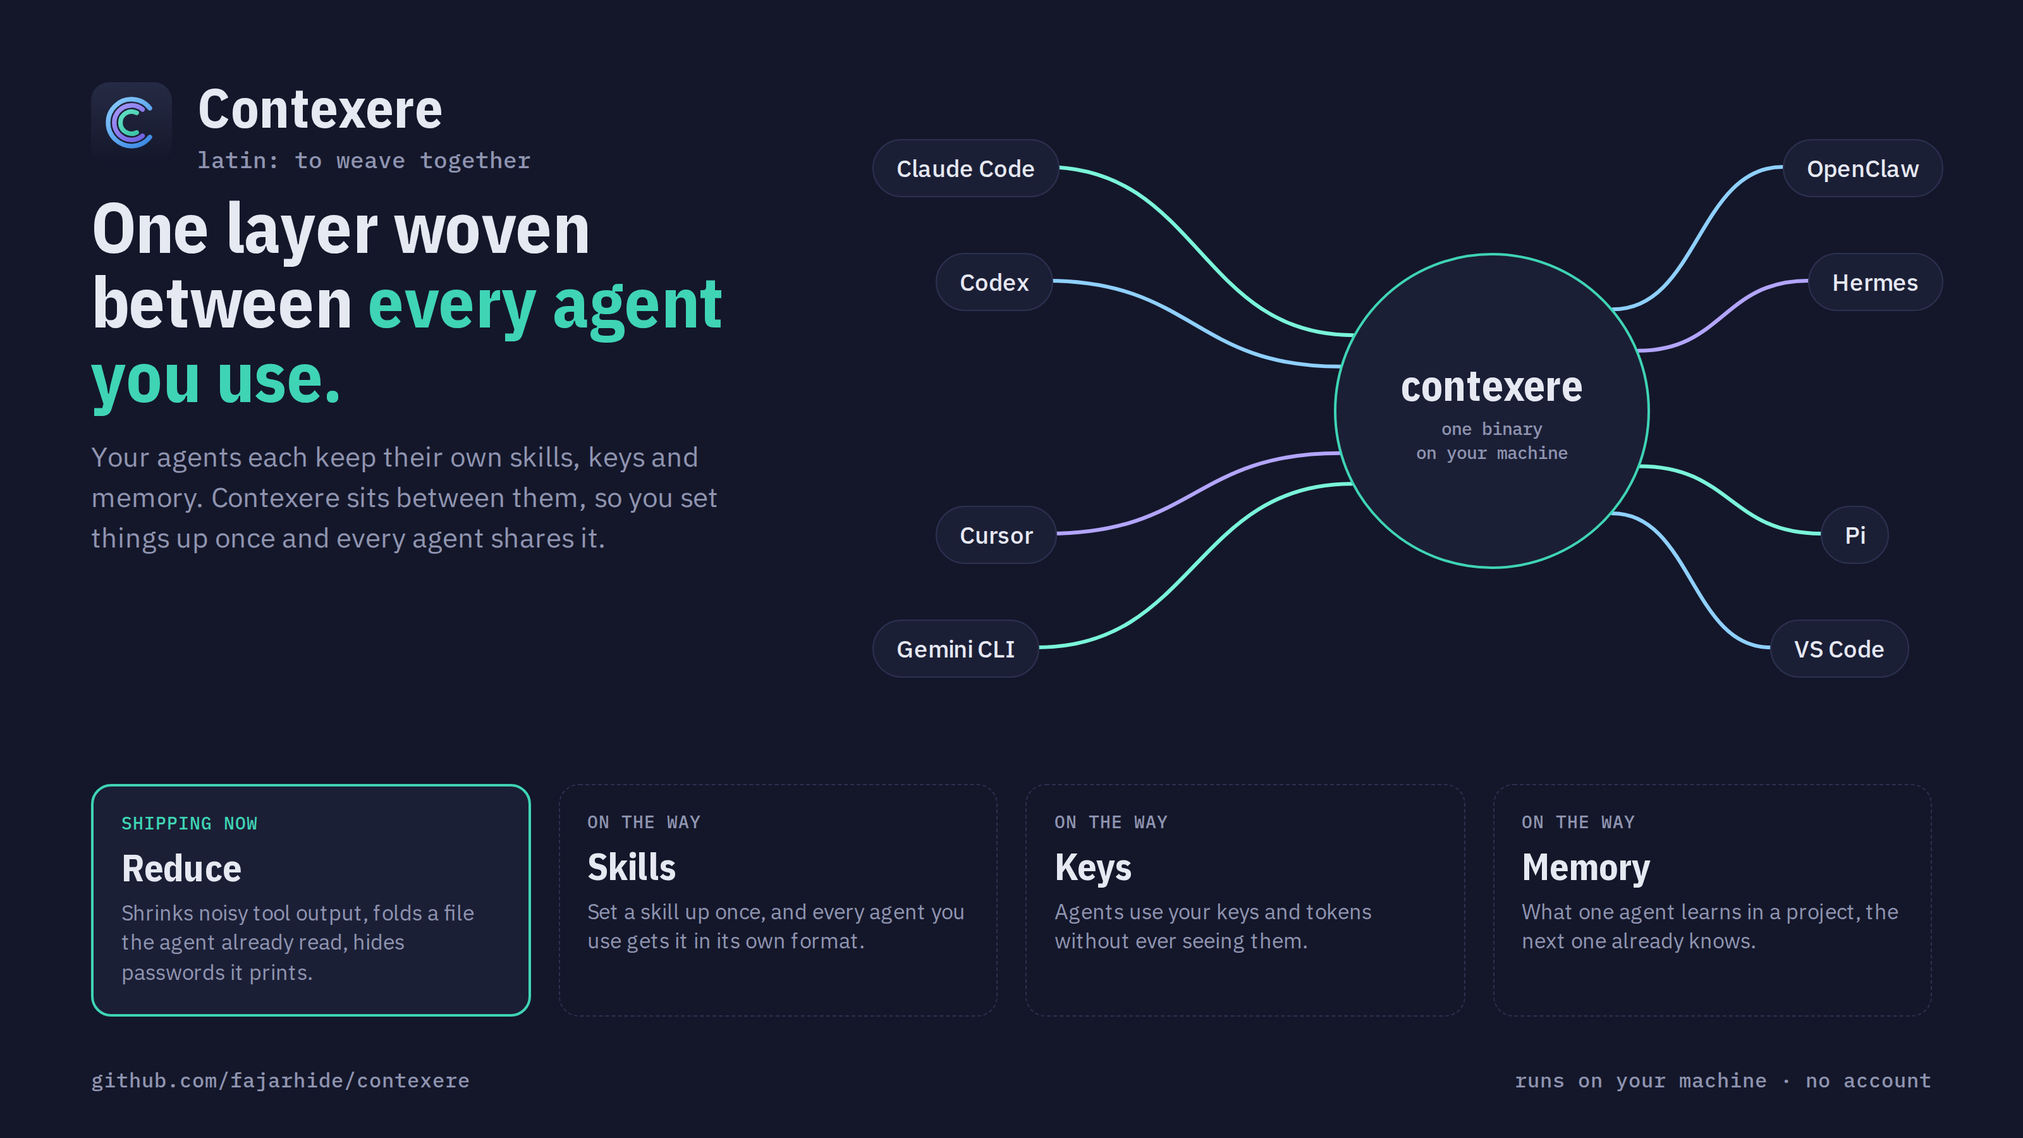
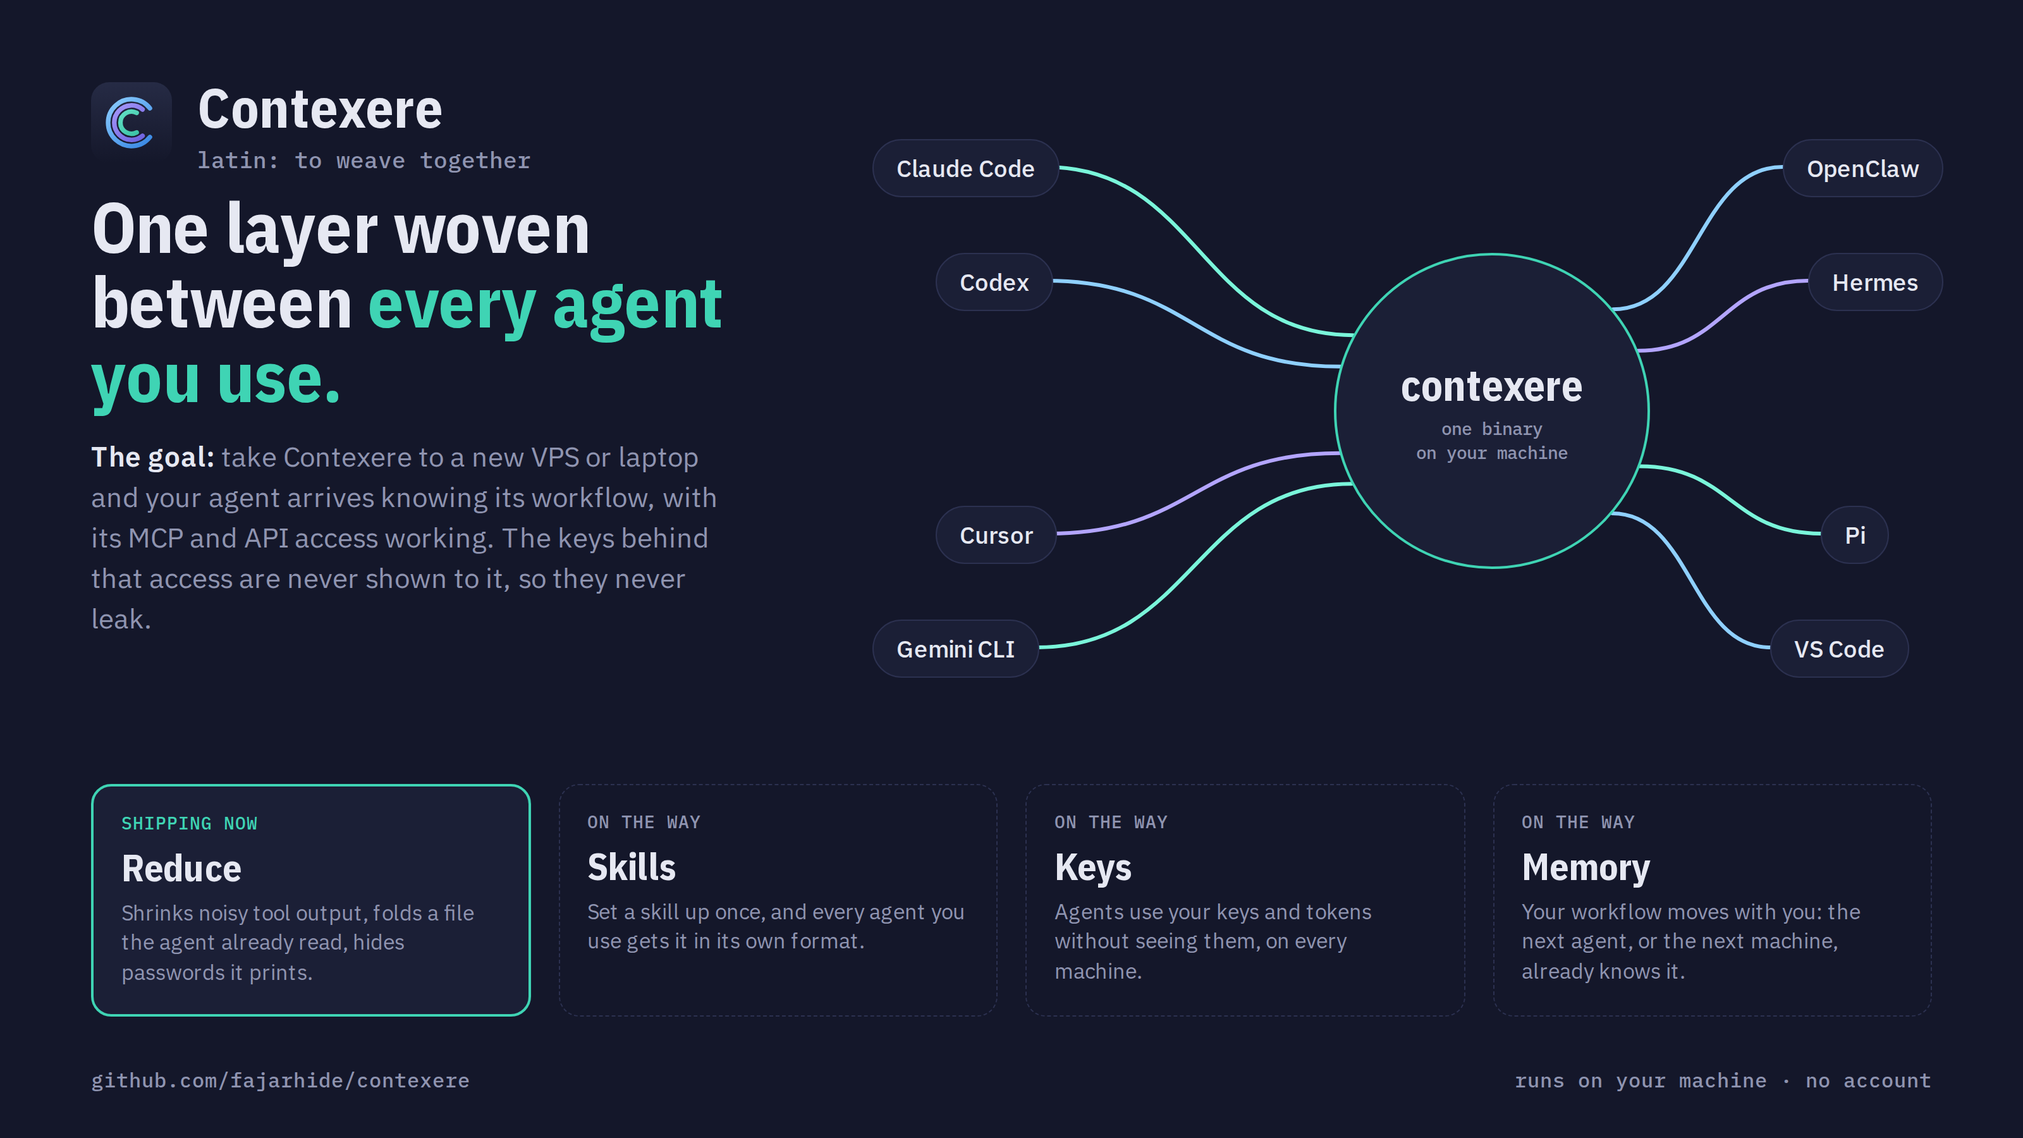
docs(readme): lead with the poster and the portable, safe goal; drop the demo GIFs for now (#1084)

diff --git a/i18n/README-ar.md b/i18n/README-ar.md
@@ -13,7 +13,10 @@
 [![License: Apache 2.0](https://img.shields.io/github/license/fajarhide/contexere)](https://github.com/fajarhide/contexere/blob/main/LICENSE)
 </br></br>
 
-<img src="../media/demo.gif" alt="Contexere يقطّر مخرجات cargo test المزعجة إلى الحكم النهائي، ثم يشغّل contexere stats" width="820" />
+<picture>
+  <source media="(prefers-color-scheme: dark)" srcset="../media/contexere-poster-dark.png" />
+  <img src="../media/contexere-poster-light.png" alt="Contexere طبقة واحدة تنسج Claude Code وCodex وCursor وGemini CLI وOpenClaw وHermes وPi وVS Code معًا. Reduce متوفر اليوم، والمهارات والمفاتيح والذاكرة قيد التطوير." width="820" />
+</picture>
 </div>
 
 ---
@@ -22,12 +25,7 @@
 
 ## إلى أين يتجه
 
-<picture>
-  <source media="(prefers-color-scheme: dark)" srcset="../media/contexere-poster-dark.png" />
-  <img src="../media/contexere-poster-light.png" alt="Contexere طبقة واحدة تنسج Claude Code وCodex وCursor وGemini CLI وOpenClaw وHermes وPi وVS Code معًا. Reduce متوفر اليوم، والمهارات والمفاتيح والذاكرة قيد التطوير." width="820" />
-</picture>
-
-كل وكيل تستخدمه يحتفظ بمهاراته ومفاتيحه وذاكرته وحده. Contexere طبقة واحدة بينها: تضبط المهارة مرة واحدة فتصل إلى كل الوكلاء، ويستخدم الوكيل مفاتيحك دون أن يراها أبدًا، وما يتعلمه وكيل في مشروع يعرفه الوكيل التالي مسبقًا. هذا الجزء قيد التطوير. ما يتوفر اليوم هو الجزء الأول، طبقة السياق والرموز الموضحة أدناه.
+الهدف: خذ Contexere إلى خادم VPS أو حاسوب محمول جديد، فيصل وكيلك وهو يعرف سير عمله، ويبقى وصوله إلى خوادم MCP وواجهات API يعمل. المفاتيح التي تقف خلف هذا الوصول لا تُعرض على الوكيل أبدًا، لذلك لا تتسرب أبدًا. وحول ذلك مهارات تضبطها مرة واحدة لكل الوكلاء، وذاكرة تنتقل معك بين الوكلاء والأجهزة. هذا الجزء قيد التطوير. ما يتوفر اليوم هو الجزء الأول، طبقة السياق والرموز الموضحة أدناه.
 
 ## لماذا
 
@@ -43,17 +41,6 @@
 - عند فشل أمر: يمرّره كما طُبع، فيصل الخطأ الحقيقي إلى الوكيل. وبيانات الاعتماد التي يطبعها أمر فاشل تصل إلى الوكيل أيضًا.
 - عند قراءة JSON أو YAML أو CSV: يتركها بايتًا ببايت.
 - يتحقق `contexere doctor` من أن Hook كل وكيل يعمل ويُخفي البيانات الحساسة.
-
-<table>
-<tr>
-<td align="center"><b>بدون Contexere</b><br/><sub>الملف نفسه (7.6 KB) يُقرأ مرتين</sub></td>
-<td align="center"><b>مع Contexere</b><br/><sub>القراءة الثانية 214 B، أصغر بنسبة <b>97.2%</b></sub></td>
-</tr>
-<tr>
-<td valign="top"><img src="../media/demo-ledger-without.gif" alt="الملف نفسه مقروءًا مرتين بدون Contexere: شاشتان متطابقتان من الشيفرة" width="400" /></td>
-<td valign="top"><img src="../media/demo-ledger-with.gif" alt="الملف نفسه مقروءًا مرتين عبر Contexere: الثانية تعيد سطر علامة واحدًا ومقبضًا للاسترجاع" width="400" /></td>
-</tr>
-</table>
 
 التكلفة نحو 21 ms لكل أمر. يعتمد التوفير على ما يفعله وكيلك؛ شغّل `contexere stats` لترى رقمك أنت. المنهجية والأرقام الكاملة في [صفحة القياسات](https://omni.weekndlabs.com/docs/develop/benchmarks).
 

diff --git a/i18n/README-ko.md b/i18n/README-ko.md
@@ -13,7 +13,10 @@
 [![License: Apache 2.0](https://img.shields.io/github/license/fajarhide/contexere)](https://github.com/fajarhide/contexere/blob/main/LICENSE)
 </br></br>
 
-<img src="../media/demo.gif" alt="Contexere가 시끄러운 cargo test 결과를 판정만 남기도록 증류한 뒤 contexere stats를 실행하는 모습" width="820" />
+<picture>
+  <source media="(prefers-color-scheme: dark)" srcset="../media/contexere-poster-dark.png" />
+  <img src="../media/contexere-poster-light.png" alt="Claude Code, Codex, Cursor, Gemini CLI, OpenClaw, Hermes, Pi, VS Code를 하나로 엮는 레이어로서의 Contexere. Reduce는 제공 중이고 스킬, 키, 메모리는 개발 중입니다." width="820" />
+</picture>
 </div>
 
 ---
@@ -22,12 +25,7 @@
 
 ## 앞으로의 방향
 
-<picture>
-  <source media="(prefers-color-scheme: dark)" srcset="../media/contexere-poster-dark.png" />
-  <img src="../media/contexere-poster-light.png" alt="Claude Code, Codex, Cursor, Gemini CLI, OpenClaw, Hermes, Pi, VS Code를 하나로 엮는 레이어로서의 Contexere. Reduce는 제공 중이고 스킬, 키, 메모리는 개발 중입니다." width="820" />
-</picture>
-
-사용하는 에이전트는 저마다 스킬, 키, 메모리를 따로 가지고 있습니다. Contexere는 그 사이에 놓이는 하나의 레이어입니다. 스킬은 한 번만 설정하면 모든 에이전트가 쓰고, 에이전트는 키를 한 번도 보지 않고 사용하며, 한 에이전트가 프로젝트에서 배운 것을 다음 에이전트가 이미 알고 있습니다. 이 부분은 개발 중입니다. 지금 제공하는 것은 그 첫 부분, 아래에서 설명하는 컨텍스트와 토큰 레이어입니다.
+목표는 이렇습니다. Contexere를 새 VPS나 노트북으로 가져가면, 에이전트는 자기 워크플로를 이미 알고 있고 MCP 서버와 API 접근도 그대로 동작합니다. 그 접근을 가능하게 하는 키는 에이전트에게 한 번도 보여 주지 않으므로 유출되지 않습니다. 그 주변에는 한 번만 설정하면 모든 에이전트가 쓰는 스킬과, 에이전트와 머신을 넘어 이어지는 메모리가 있습니다. 이 부분은 개발 중입니다. 지금 제공하는 것은 그 첫 부분, 아래에서 설명하는 컨텍스트와 토큰 레이어입니다.
 
 ## 왜 필요한가
 
@@ -43,17 +41,6 @@ Contexere는 모델이 읽기 전에 모델에 필요 없는 것을 걷어냅니
 - 명령이 실패할 때: 출력된 그대로 전달하므로 실제 오류가 에이전트에게 닿습니다. 실패한 명령이 출력한 자격 증명도 에이전트에게 그대로 닿습니다.
 - JSON, YAML, CSV를 읽을 때: 바이트 단위로 그대로 둡니다.
 - `contexere doctor`는 각 에이전트의 Hook이 동작하고 마스킹하는지 확인합니다.
-
-<table>
-<tr>
-<td align="center"><b>Contexere 없이</b><br/><sub>같은 7.6 KB 파일을 두 번 읽음</sub></td>
-<td align="center"><b>Contexere 사용</b><br/><sub>두 번째 읽기는 214 B, <b>97.2%</b> 작음</sub></td>
-</tr>
-<tr>
-<td valign="top"><img src="../media/demo-ledger-without.gif" alt="Contexere 없이 같은 파일을 두 번 읽은 경우: 동일한 소스 화면 두 개" width="400" /></td>
-<td valign="top"><img src="../media/demo-ledger-with.gif" alt="Contexere를 거쳐 같은 파일을 두 번 읽은 경우: 두 번째는 마커 한 줄과 가져오기용 핸들만 돌려줌" width="400" /></td>
-</tr>
-</table>
 
 비용은 명령당 약 21 ms입니다. 절감량은 에이전트가 하는 일에 따라 달라집니다. 내 수치는 `contexere stats`로 확인하세요. 방법과 전체 수치는 [벤치마크 페이지](https://omni.weekndlabs.com/docs/develop/benchmarks)에 있습니다.
 

diff --git a/i18n/README-vi.md b/i18n/README-vi.md
@@ -13,7 +13,10 @@
 [![License: Apache 2.0](https://img.shields.io/github/license/fajarhide/contexere)](https://github.com/fajarhide/contexere/blob/main/LICENSE)
 </br></br>
 
-<img src="../media/demo.gif" alt="Contexere chưng cất một lần chạy cargo test nhiều nhiễu xuống còn kết luận, rồi chạy contexere stats" width="820" />
+<picture>
+  <source media="(prefers-color-scheme: dark)" srcset="../media/contexere-poster-dark.png" />
+  <img src="../media/contexere-poster-light.png" alt="Contexere là một lớp dệt Claude Code, Codex, Cursor, Gemini CLI, OpenClaw, Hermes, Pi và VS Code lại với nhau. Reduce đã có, skill, khóa và bộ nhớ đang được phát triển." width="820" />
+</picture>
 </div>
 
 ---
@@ -22,12 +25,7 @@
 
 ## Hướng đi
 
-<picture>
-  <source media="(prefers-color-scheme: dark)" srcset="../media/contexere-poster-dark.png" />
-  <img src="../media/contexere-poster-light.png" alt="Contexere là một lớp dệt Claude Code, Codex, Cursor, Gemini CLI, OpenClaw, Hermes, Pi và VS Code lại với nhau. Reduce đã có, skill, khóa và bộ nhớ đang được phát triển." width="820" />
-</picture>
-
-Mỗi agent bạn dùng đều giữ skill, khóa và bộ nhớ riêng. Contexere là một lớp nằm giữa chúng: thiết lập một skill một lần là mọi agent đều có, agent dùng khóa của bạn mà không bao giờ nhìn thấy nó, và điều một agent học được trong một dự án thì agent tiếp theo đã biết. Phần này đang được phát triển. Thứ có sẵn hôm nay là phần đầu tiên, lớp ngữ cảnh và token được mô tả bên dưới.
+Mục tiêu: mang Contexere sang một VPS hay laptop mới, agent của bạn đến nơi đã hiểu quy trình làm việc của mình, và quyền truy cập máy chủ MCP cùng API vẫn hoạt động. Các khóa đứng sau quyền truy cập đó không bao giờ hiện ra cho agent, nên không bao giờ bị lộ. Xung quanh là các skill chỉ cần thiết lập một lần cho mọi agent, và bộ nhớ đi theo bạn qua các agent và các máy. Phần này đang được phát triển. Thứ có sẵn hôm nay là phần đầu tiên, lớp ngữ cảnh và token được mô tả bên dưới.
 
 ## Tại sao
 
@@ -43,17 +41,6 @@ Contexere loại bỏ những gì model không cần, trước khi model đọc.
 - Lệnh thất bại: chuyển tiếp đúng như đã in, để lỗi thật đến được agent. Thông tin xác thực do lệnh thất bại in ra cũng đến được agent.
 - Đọc JSON, YAML hoặc CSV: giữ nguyên từng byte.
 - `contexere doctor` kiểm tra Hook của từng agent có chạy và có che thông tin nhạy cảm hay không.
-
-<table>
-<tr>
-<td align="center"><b>Không có Contexere</b><br/><sub>cùng một tệp 7,6 KB, đọc hai lần</sub></td>
-<td align="center"><b>Có Contexere</b><br/><sub>lần đọc thứ hai là 214 B, nhỏ hơn <b>97,2%</b></sub></td>
-</tr>
-<tr>
-<td valign="top"><img src="../media/demo-ledger-without.gif" alt="cùng một tệp đọc hai lần khi không có Contexere: hai màn hình mã nguồn giống hệt nhau" width="400" /></td>
-<td valign="top"><img src="../media/demo-ledger-with.gif" alt="cùng một tệp đọc hai lần qua Contexere: lần thứ hai chỉ trả về một dòng marker và một handle để lấy lại" width="400" /></td>
-</tr>
-</table>
 
 Chi phí khoảng 21 ms cho mỗi lệnh. Mức tiết kiệm phụ thuộc vào việc agent của bạn làm; chạy `contexere stats` để xem con số của riêng bạn. Phương pháp và số liệu đầy đủ nằm ở [trang benchmark](https://omni.weekndlabs.com/docs/develop/benchmarks).
 

diff --git a/i18n/README-id.md b/i18n/README-id.md
@@ -13,7 +13,10 @@
 [![License: Apache 2.0](https://img.shields.io/github/license/fajarhide/contexere)](https://github.com/fajarhide/contexere/blob/main/LICENSE)
 </br></br>
 
-<img src="../media/demo.gif" alt="Contexere mendistilasi hasil cargo test yang bising sampai ke verdict-nya, lalu contexere stats" width="820" />
+<picture>
+  <source media="(prefers-color-scheme: dark)" srcset="../media/contexere-poster-dark.png" />
+  <img src="../media/contexere-poster-light.png" alt="Contexere sebagai satu lapisan yang menenun Claude Code, Codex, Cursor, Gemini CLI, OpenClaw, Hermes, Pi dan VS Code. Reduce sudah tersedia; skill, key dan memori sedang menyusul." width="820" />
+</picture>
 </div>
 
 ---
@@ -22,12 +25,7 @@
 
 ## Ke mana arahnya
 
-<picture>
-  <source media="(prefers-color-scheme: dark)" srcset="../media/contexere-poster-dark.png" />
-  <img src="../media/contexere-poster-light.png" alt="Contexere sebagai satu lapisan yang menenun Claude Code, Codex, Cursor, Gemini CLI, OpenClaw, Hermes, Pi dan VS Code. Reduce sudah tersedia; skill, key dan memori sedang menyusul." width="820" />
-</picture>
-
-Setiap agent yang Anda pakai menyimpan skill, key, dan memorinya sendiri-sendiri. Contexere adalah satu lapisan di antara mereka: atur skill sekali dan semua agent mendapatkannya, agent memakai key Anda tanpa pernah melihat isinya, dan apa yang dipelajari satu agent di sebuah proyek sudah diketahui agent berikutnya. Bagian itu sedang dikerjakan. Yang tersedia hari ini adalah bagian pertamanya, lapisan konteks dan token yang dijelaskan di bawah.
+Tujuannya: bawa Contexere ke VPS atau laptop baru, dan agent Anda langsung paham workflow-nya, dengan akses ke server MCP dan API tetap berjalan. Key di balik akses itu tidak pernah diperlihatkan ke agent, jadi tidak pernah bocor. Di sekelilingnya ada skill yang cukup diatur sekali untuk semua agent, dan memori yang terbawa lintas agent dan mesin. Bagian itu sedang dikerjakan. Yang tersedia hari ini adalah bagian pertamanya, lapisan konteks dan token yang dijelaskan di bawah.
 
 ## Kenapa
 
@@ -43,17 +41,6 @@ Contexere membuang apa yang tidak dibutuhkan model, sebelum model membacanya. Ti
 - Perintah gagal: diteruskan persis seperti yang dicetak, supaya error yang sebenarnya sampai ke agent. Kredensial yang dicetak perintah yang gagal ikut sampai ke agent.
 - Membaca JSON, YAML atau CSV: dibiarkan byte demi byte.
 - `contexere doctor` memeriksa bahwa Hook tiap agent berjalan dan melakukan redaksi.
-
-<table>
-<tr>
-<td align="center"><b>Tanpa Contexere</b><br/><sub>file 7,6 KB yang sama, dibaca dua kali</sub></td>
-<td align="center"><b>Dengan Contexere</b><br/><sub>pembacaan kedua 214 B, <b>97,2%</b> lebih kecil</sub></td>
-</tr>
-<tr>
-<td valign="top"><img src="../media/demo-ledger-without.gif" alt="file yang sama dibaca dua kali tanpa Contexere: dua layar source yang identik" width="400" /></td>
-<td valign="top"><img src="../media/demo-ledger-with.gif" alt="file yang sama dibaca dua kali lewat Contexere: yang kedua hanya mengembalikan satu baris marker dan sebuah handle untuk mengambilnya lagi" width="400" /></td>
-</tr>
-</table>
 
 Biayanya sekitar 21 ms per perintah. Penghematan tergantung pada apa yang dikerjakan agent kamu; jalankan `contexere stats` untuk angka kamu sendiri. Metode dan angka lengkap ada di [halaman benchmark](https://omni.weekndlabs.com/docs/develop/benchmarks).
 

diff --git a/README.md b/README.md
@@ -18,7 +18,10 @@ brew install fajarhide/tap/contexere && contexere init
 ```
 
 </br>
-<img src="media/demo.gif" alt="Contexere distilling a noisy cargo test run down to the verdict, then contexere stats" width="820" />
+<picture>
+  <source media="(prefers-color-scheme: dark)" srcset="media/contexere-poster-dark.png" />
+  <img src="media/contexere-poster-light.png" alt="Contexere as one layer woven between Claude Code, Codex, Cursor, Gemini CLI, OpenClaw, Hermes, Pi and VS Code. Reduce ships today; skills, keys and memory are on the way." width="820" />
+</picture>
 </div>
 
 ---
@@ -27,12 +30,7 @@ brew install fajarhide/tap/contexere && contexere init
 
 ## Where it is going
 
-<picture>
-  <source media="(prefers-color-scheme: dark)" srcset="media/contexere-poster-dark.png" />
-  <img src="media/contexere-poster-light.png" alt="Contexere as one layer woven between Claude Code, Codex, Cursor, Gemini CLI, OpenClaw, Hermes, Pi and VS Code. Reduce ships today; skills, keys and memory are on the way." width="820" />
-</picture>
-
-Every agent you use keeps its own skills, keys and memory. Contexere is the one layer between them: set a skill up once and every agent gets it, agents use your keys without ever seeing them, and what one agent learns in a project the next one already knows. That part is on the way. What ships today is the first piece, the context and token layer described below.
+The goal: take Contexere to a new VPS or laptop, and your agent arrives knowing its workflow, with its access to MCP servers and APIs working. The keys behind that access are never shown to the agent, so they never leak. Around that sit skills you set up once for every agent, and memory that carries across agents and machines. That part is on the way. What ships today is the first piece, the context and token layer described below.
 
 ## Why
 
@@ -48,17 +46,6 @@ Contexere takes out what the model does not need, before the model reads it. Not
 - Fails a command: passes it through as printed, so the real error reaches the agent. A credential printed by a failing command reaches the agent too.
 - Reads JSON, YAML or CSV: leaves it byte for byte.
 - `contexere doctor` checks that each agent's hooks fire and redact.
-
-<table>
-<tr>
-<td align="center"><b>Without Contexere</b><br/><sub>the same 7.6 KB file, read twice</sub></td>
-<td align="center"><b>With Contexere</b><br/><sub>the second read is 214 B, <b>97.2%</b> smaller</sub></td>
-</tr>
-<tr>
-<td valign="top"><img src="media/demo-ledger-without.gif" alt="the same file read twice with no Contexere: two identical screens of source" width="400" /></td>
-<td valign="top"><img src="media/demo-ledger-with.gif" alt="the same file read twice through Contexere: the second returns one marker line and a retrieval handle" width="400" /></td>
-</tr>
-</table>
 
 It costs about 21 ms per command. Savings depend on what your agent does; run `contexere stats` for your own figure. Method and full numbers are on the [benchmarks page](https://omni.weekndlabs.com/docs/develop/benchmarks).
 
